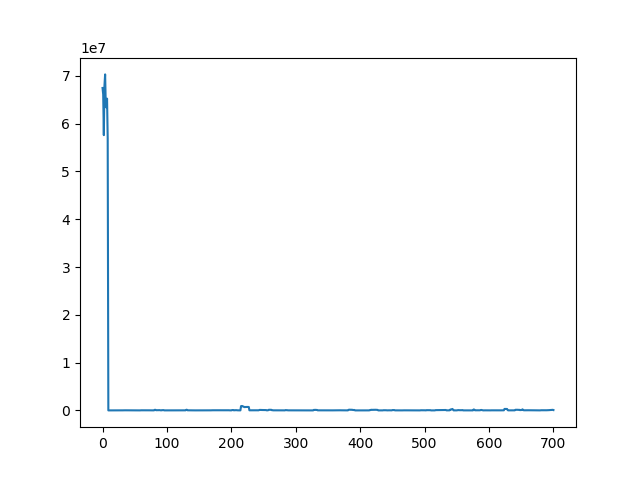
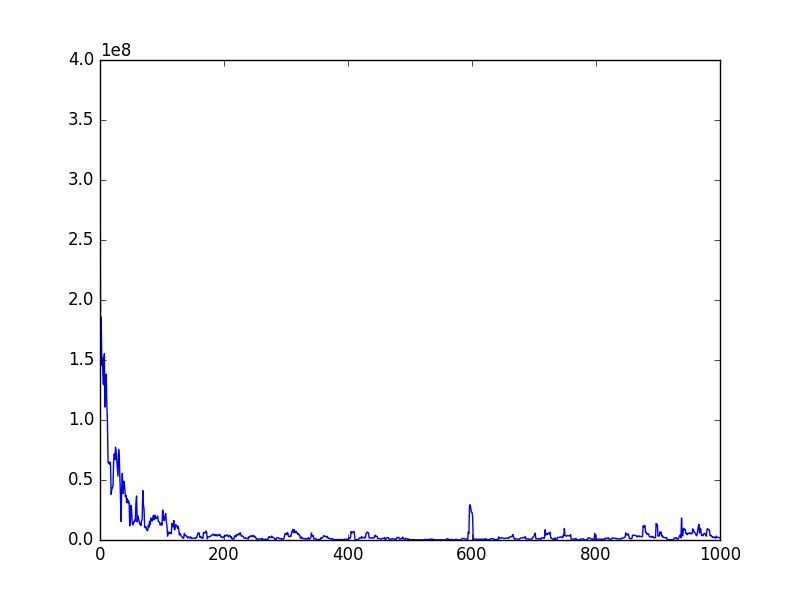
change data2 kernel from gauss to cubic, a little better

diff --git a/HW1/utils.py b/HW1/utils.py
@@ -100,7 +100,7 @@ def P(X, Mu, phi = "Gauss"):
     D_ = D(X, Mu, phi)
     return I - D_.dot(la.pinv(D_.T.dot(D_))).dot(D_.T)
 
-def Birth(X, Mu, y, mu):
+def Birth(X, Mu, y, mu, phi = "Gauss"):
     N = X.shape[0]
     c = y.shape[1]
     k = Mu.shape[0]
@@ -114,14 +114,14 @@ def Birth(X, Mu, y, mu):
         Mu_ = np.concatenate((Mu, mu)).reshape(1, d)
     else:
         Mu_ = np.concatenate((Mu, mu))
-    P_ = P(X, Mu)
-    P_1 = P(X, Mu_)
+    P_ = P(X, Mu, phi)
+    P_1 = P(X, Mu_, phi)
     for i in range(c):
         out *= (y[:, i].T.dot(P_).dot(y[:, i]) / y[:, i].T.dot(P_1).dot(y[:, i])) ** (N/2)
     out *= S * np.exp(-C_) / (k + 1)
     return out
 
-def Death(X, Mu, y, j):
+def Death(X, Mu, y, j, phi = "Gauss"):
     N = X.shape[0]
     c = y.shape[1]
     k = Mu.shape[0]
@@ -130,14 +130,14 @@ def Death(X, Mu, y, j):
     S = 1
     out = 1
     Mu_ = np.concatenate((Mu[:j, :], Mu[j + 1:, :]))
-    P_ = P(X, Mu)
-    P_1 = P(X, Mu_)
+    P_ = P(X, Mu, phi)
+    P_1 = P(X, Mu_, phi)
     for i in range(c):
         out *= (y[:, i].T.dot(P_).dot(y[:, i]) / y[:, i].T.dot(P_1).dot(y[:, i])) ** (N/2)
     out *= k * np.exp(C_) / S
     return out
 
-def Split(X, Mu, y, s, j, mu1, mu2):
+def Split(X, Mu, y, s, j, mu1, mu2, phi = "Gauss"):
     N = X.shape[0]
     c = y.shape[1]
     k = Mu.shape[0]
@@ -145,14 +145,14 @@ def Split(X, Mu, y, s, j, mu1, mu2):
     C_ = C(c, "RJSA", k = k, d = d)
     out = 1
     Mu_ = np.concatenate((Mu[:j, :], mu1, mu2, Mu[j + 1:, :]))
-    P_ = P(X, Mu)
-    P_1 = P(X, Mu_) 
+    P_ = P(X, Mu, phi)
+    P_1 = P(X, Mu_, phi) 
     for i in range(c):
         out *= (y[:, i].T.dot(P_).dot(y[:, i]) / y[:, i].T.dot(P_1).dot(y[:, i])) ** (N/2)
     out *= k * s * np.exp(C_) / (k + 1)
     return out
 
-def Merge(X, Mu, y, s, j1, j2, mu):
+def Merge(X, Mu, y, s, j1, j2, mu, phi = "Gauss"):
     N = X.shape[0]
     c = y.shape[1]
     k = Mu.shape[0]
@@ -161,8 +161,8 @@ def Merge(X, Mu, y, s, j1, j2, mu):
     out = 1
     [j1, j2] = [j2, j1] if j1 > j2 else [j1, j2]
     Mu_ = np.concatenate((Mu[:j1, :], Mu[j1 + 1 : j2, :], Mu[j2 + 1:, :], mu))
-    P_ = P(X, Mu)
-    P_1 = P(X, Mu_) 
+    P_ = P(X, Mu, phi)
+    P_1 = P(X, Mu_, phi) 
     for i in range(c):
         out *= (y[:, i].T.dot(P_).dot(y[:, i]) / y[:, i].T.dot(P_1).dot(y[:, i])) ** (N/2)
     out *= k * np.exp(C_) / (s * (k - 1))
@@ -188,7 +188,7 @@ def Update2(X, Mu, y, mu):
     mu = np.random.multivariate_normal(mean, sigma).reshape(1, d)
     return mu
 
-def Update(X, Mu, y):
+def Update(X, Mu, y, phi = "Gauss"):
     N = X.shape[0]
     c = y.shape[1]
     k = Mu.shape[0]
@@ -201,8 +201,8 @@ def Update(X, Mu, y):
         mu_ = Update1(X, Mu, y, mu) if w <= threshold else Update2(X, Mu, y, mu)
         Mu_ = Mu
         Mu_[j, :] = mu_
-        P_ = P(X, Mu)
-        P_1 = P(X, Mu_)
+        P_ = P(X, Mu, phi)
+        P_1 = P(X, Mu_, phi)
         RJSA = 1
         for i in range(c):
             RJSA *= (y[:, i].T.dot(P_).dot(y[:, i]) / y[:, i].T.dot(P_1).dot(y[:, i])) ** (N/2)
@@ -213,27 +213,27 @@ def Update(X, Mu, y):
             pass
     return Mu
 
-def Alpha(X, Mu, y):
-    D_ = D(X, Mu)
+def Alpha(X, Mu, y, phi = "Gauss"):
+    D_ = D(X, Mu, phi)
     alpha = la.pinv(D_.T.dot(D_)).dot(D_.T).dot(y)
     return alpha
 
-def Tao(X, Mu, y):
+def Tao(X, Mu, y, phi = "Gauss"):
     N = X.shape[0]
     c = y.shape[1]
     tao = np.zeros((c, c))
 
-    D_ = D(X, Mu)
-    P_ = P(X, Mu)
+    D_ = D(X, Mu, phi)
+    P_ = P(X, Mu, phi)
 
     for t in range(c):
         tao[t, t] = 1 / N * y[:, t].T.dot(P_).dot(y[:, t])
     
     return tao
 
-def Predict(X, Mu, alpha, tao, c):
+def Predict(X, Mu, alpha, tao, c, phi = "Gauss"):
     N = X.shape[0]
-    D_ = D(X, Mu)
+    D_ = D(X, Mu, phi)
 
     n = np.zeros((N, c))
     for t in range(N):
@@ -244,8 +244,8 @@ def Predict(X, Mu, alpha, tao, c):
     
     return predict
 
-def Loss(X, Mu, y, alpha, tao):
-    predict = Predict(X, Mu, alpha, tao, y.shape[1])
+def Loss(X, Mu, y, alpha, tao, phi = "Gauss"):
+    predict = Predict(X, Mu, alpha, tao, y.shape[1], phi)
     mse = ((predict - y) ** 2).mean()
     return mse # 0.5 * np.sum((predict - y) ** 2)
 
@@ -255,14 +255,14 @@ def T(i):
     # return coef * base ** i
     return 2 / i if i > 0 else 666
 
-def Mk(T, X, Mu, y):
+def Mk(T, X, Mu, y, phi = "Gauss"):
     N = X.shape[0]
     c = y.shape[1]
     k = Mu.shape[0]
     d = X.shape[1]
 
     out = 1
-    P_ = P(X, Mu)
+    P_ = P(X, Mu, phi)
 
     for i in range(c):
         out += np.log(y[:, i].T.dot(P_).dot(y[:, i])) * (-N / 2)
@@ -274,7 +274,7 @@ def Mk(T, X, Mu, y):
 def Pi(T, f):
     return np.exp(-f / T)
 
-def SA1(X, Mu, y, alpha, tao, iter):
+def SA1(X, Mu, y, alpha, tao, iter, phi = "Gauss"):
     N = X.shape[0]
     c = y.shape[1]
     k = Mu.shape[0]
@@ -287,32 +287,32 @@ def SA1(X, Mu, y, alpha, tao, iter):
         mu_ = Update1(X, Mu, y, mu) if w <= threshold else Update2(X, Mu, y, mu)
         Mu_ = Mu
         Mu_[j, :] = mu_
-        loss_ = Loss(X, Mu, y, alpha, tao)
-        loss_1 = Loss(X, Mu_, y, alpha, tao)
+        loss_ = Loss(X, Mu, y, alpha, tao, phi)
+        loss_1 = Loss(X, Mu_, y, alpha, tao, phi)
         if Pi(T_, loss_) <= Pi(T_, loss_1):
             Mu = Mu_
         else:
             pass
     return Mu
 
-def SA2(X, y, iter, Mu, Mu_old, alpha, alpha_old, tao, tao_old):
+def SA2(X, y, iter, Mu, Mu_old, alpha, alpha_old, tao, tao_old, phi = "Gauss"):
     N = X.shape[0]
     c = y.shape[1]
     k = Mu.shape[0]
     u = np.random.rand()
     T_ = T(iter)
-    loss = Loss(X, Mu, y, alpha, tao)
-    loss_old = Loss(X, Mu_old, y, alpha_old, tao_old) 
+    loss = Loss(X, Mu, y, alpha, tao, phi)
+    loss_old = Loss(X, Mu_old, y, alpha_old, tao_old, phi) 
     if u <= A(Pi(T_, loss) / Pi(T_, loss_old)):
         return Mu
     else:
         return Mu_old
 
-def SA3(X, y, iter, Mu, Mu_old):
+def SA3(X, y, iter, Mu, Mu_old, phi = "Gauss"):
     u = np.random.rand()
     T_ = T(iter)
-    Mk_ = Mk(T_, X, Mu, y)
-    Mk_old = Mk(T_, X, Mu_old, y)
+    Mk_ = Mk(T_, X, Mu, y, phi)
+    Mk_old = Mk(T_, X, Mu_old, y, phi)
     if u <= A(Pi(T_, -Mk_) / Pi(T_, -Mk_old)):
         return Mu
     else:

diff --git a/HW1/RJSA.py b/HW1/RJSA.py
@@ -15,6 +15,7 @@ for order in [2]: #[1, 2]:
 
     print("*** Loading data from {} ***".format("data/data{}.mat".format(order)))
     data = sio.loadmat("data/data{}.mat".format(order))
+    phi = "Gauss" if order == 1 else "Cubic"
 
     x = data["x"]
     y = data["y"]
@@ -28,12 +29,16 @@ for order in [2]: #[1, 2]:
     y_split = np.split(y, 5)
 
     print("******** Initializing parameters ********")
+    """
     if order == 1:
         k = 0
         Mu = np.array([])
     else:
         k = 150
         Mu = np.random.rand(k, x.shape[1])
+    """
+    k = 0
+    Mu = np.array([])
     iter = 1000
     s = 1
     k_max = 500
@@ -64,9 +69,9 @@ for order in [2]: #[1, 2]:
         for i in range(iter):
             k = Mu.shape[0]
             Mu_old = Mu
-            alpha = Alpha(x_train, Mu, y_train)
-            tao = Tao(x_train, Mu, y_train)
-            loss_ = Loss(x_val, Mu, y_val, alpha, tao)
+            alpha = Alpha(x_train, Mu, y_train, phi)
+            tao = Tao(x_train, Mu, y_train, phi)
+            loss_ = Loss(x_val, Mu, y_val, alpha, tao, phi)
             loss = np.append(loss, loss_)
             if np.mod(i, 50) == 0: # save model per 50 iter
                 if i != 0:
@@ -88,7 +93,7 @@ for order in [2]: #[1, 2]:
                 # print("birth move")
                 u_ = np.random.rand()
                 mu = Generate2(x_train)
-                if u_ <= A(Birth(x_train, Mu, y_train, mu)):
+                if u_ <= A(Birth(x_train, Mu, y_train, mu, phi)):
                     if k == 0:
                         mu = mu.reshape(d)
                         Mu = np.concatenate((Mu, mu)).reshape(1, d)
@@ -102,7 +107,7 @@ for order in [2]: #[1, 2]:
                 # print("death move")
                 u_ = np.random.rand()
                 j = np.random.randint(0, k)
-                if u_ <= A(Death(x_train, Mu, y_train, j)):
+                if u_ <= A(Death(x_train, Mu, y_train, j, phi)):
                     k = k - 1
                     Mu = np.concatenate((Mu[:j, :], Mu[j + 1:, :]))
                 else:
@@ -116,7 +121,7 @@ for order in [2]: #[1, 2]:
                 u_1 = np.random.rand(1, d)
                 mu1 = mu - u_1 * s
                 mu2 = mu + u_1 * s
-                if u_ <= A(Split(x_train, Mu, y_train, s, j, mu1, mu2)):
+                if u_ <= A(Split(x_train, Mu, y_train, s, j, mu1, mu2, phi)):
                     k = k + 1
                     Mu = np.concatenate((Mu[:j, :], Mu[j + 1:, :], mu1, mu2))
                 else:
@@ -134,7 +139,7 @@ for order in [2]: #[1, 2]:
                     i -= 1
                     continue
                 mu = ((mu1 + mu2) * 0.5).reshape(1, d)
-                if u_ <= A(Merge(x_train, Mu, y_train, s, j1, j2, mu)):
+                if u_ <= A(Merge(x_train, Mu, y_train, s, j1, j2, mu, phi)):
                     k = k - 1
                     Mu = np.concatenate((Mu[:j1, :], Mu[j1 + 1: j2, :], Mu[j2 + 1:, :], mu))
                 else:
@@ -145,29 +150,29 @@ for order in [2]: #[1, 2]:
                 if k == 1:
                     pass
                 else:
-                    Mu = Update(x_train, Mu, y_train)
+                    Mu = Update(x_train, Mu, y_train, phi)
 
             # perform a MH step with the annealed acceptance ratio
             # SA method 1
             """
-            alpha = Alpha(x, Mu, y)
-            tao = Tao(x, Mu, y)
-            Mu = SA1(x, Mu, y, alpha, tao, i)
+            alpha = Alpha(x, Mu, y, phi)
+            tao = Tao(x, Mu, y, phi)
+            Mu = SA1(x, Mu, y, alpha, tao, i, phi)
             """
             # SA method 2
             """
-            alpha = Alpha(x_train, Mu, y_train)
-            tao = Tao(x_train, Mu, y_train)
-            alpha_old = Alpha(x_train, Mu_old, y_train)
-            tao_old = Tao(x_train, Mu_old, y_train)
-            Mu = SA2(x_val, y_val, i + val * iter, Mu, Mu_old, alpha, alpha_old, tao, tao_old)
+            alpha = Alpha(x_train, Mu, y_train, phi)
+            tao = Tao(x_train, Mu, y_train, phi)
+            alpha_old = Alpha(x_train, Mu_old, y_train, phi)
+            tao_old = Tao(x_train, Mu_old, y_train, phi)
+            Mu = SA2(x_val, y_val, i + val * iter, Mu, Mu_old, alpha, alpha_old, tao, tao_old, phi)
             """
             # SA method 3
-            Mu = SA3(x_val, y_val, i, Mu, Mu_old)
+            Mu = SA3(x_val, y_val, i, Mu, Mu_old, phi)
 
         # save model
-        alpha = Alpha(x_train, Mu, y_train)
-        tao = Tao(x_train, Mu, y_train)
+        alpha = Alpha(x_train, Mu, y_train, phi)
+        tao = Tao(x_train, Mu, y_train, phi)
         # loss_ = Loss(x_val, Mu, y_val, alpha, tao)
         # loss = np.append(loss, loss_)
         np.save("model/RJSA/Loss{}.npy".format(order), loss)
@@ -181,14 +186,14 @@ for order in [2]: #[1, 2]:
 
         print("************ Training #{} is done ************".format(val + 1))
 
-    alpha = Alpha(x, Mu, y)
-    tao = Tao(x, Mu, y)
-    loss_ = Loss(x, Mu, y, alpha, tao)
+    alpha = Alpha(x, Mu, y, phi)
+    tao = Tao(x, Mu, y, phi)
+    loss_ = Loss(x, Mu, y, alpha, tao, phi)
     print("Total loss: %.5f, k = %d" % (loss_, k))
 
     print("************ Do testing ************")
 
     # test
-    ytest = Predict(xtest, Mu, alpha, tao, c)
+    ytest = Predict(xtest, Mu, alpha, tao, c, phi)
     np.save("model/RJSA/v{}.npy".format(order), ytest)
     print("******** model-RJSA-v{} is saved ********".format(order))
